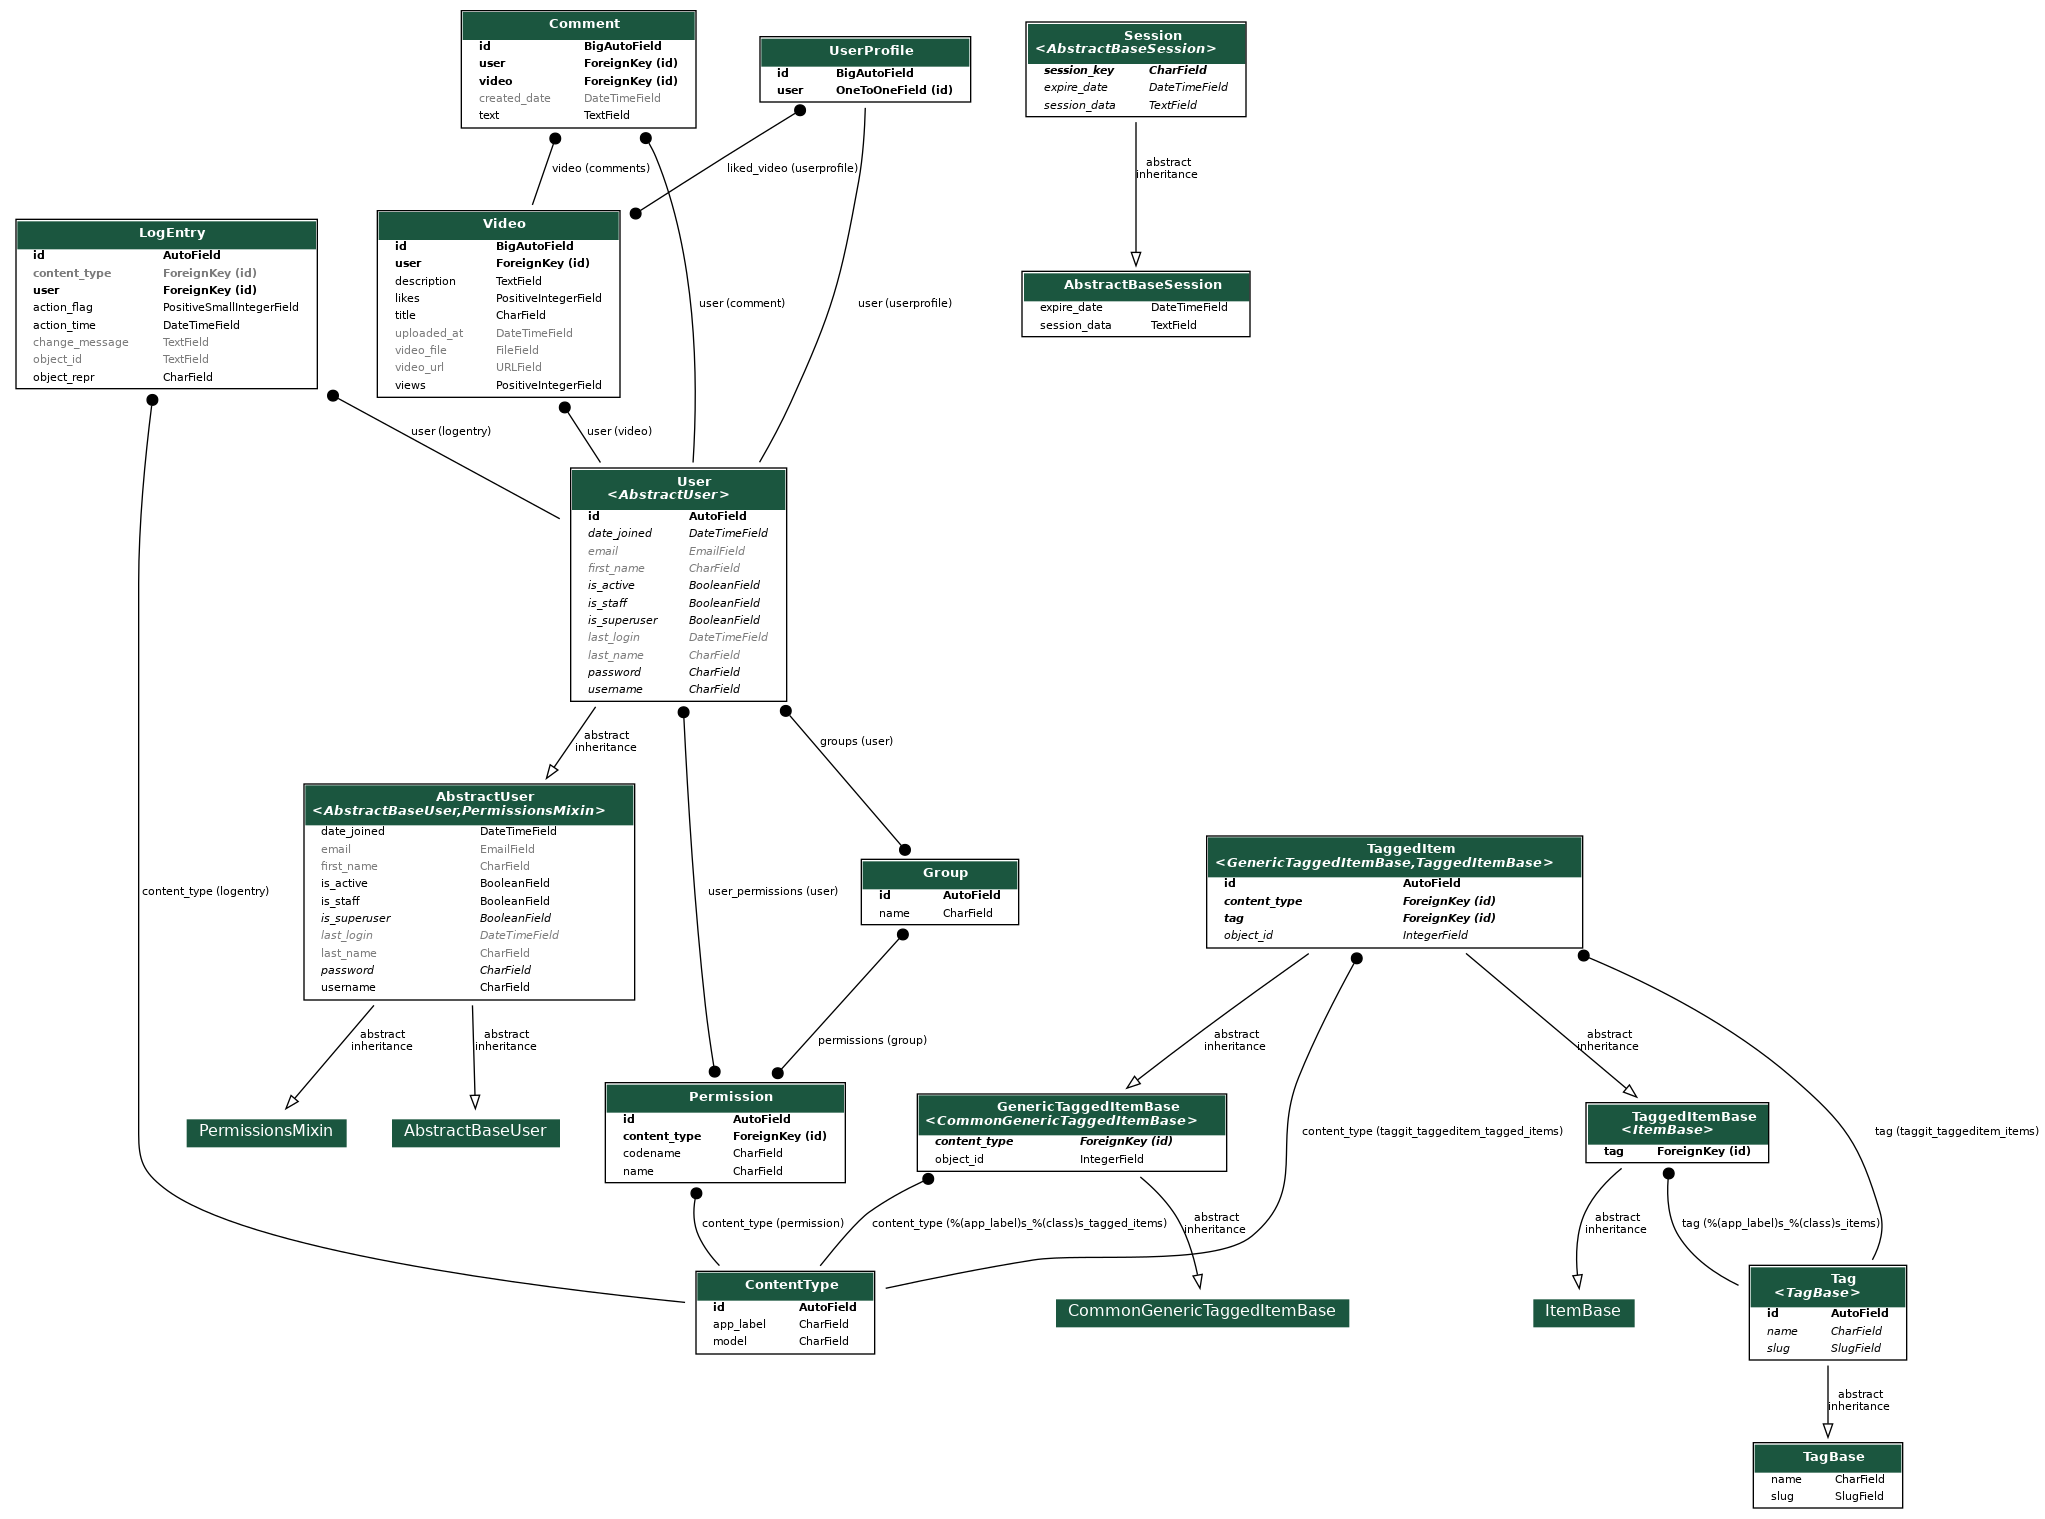
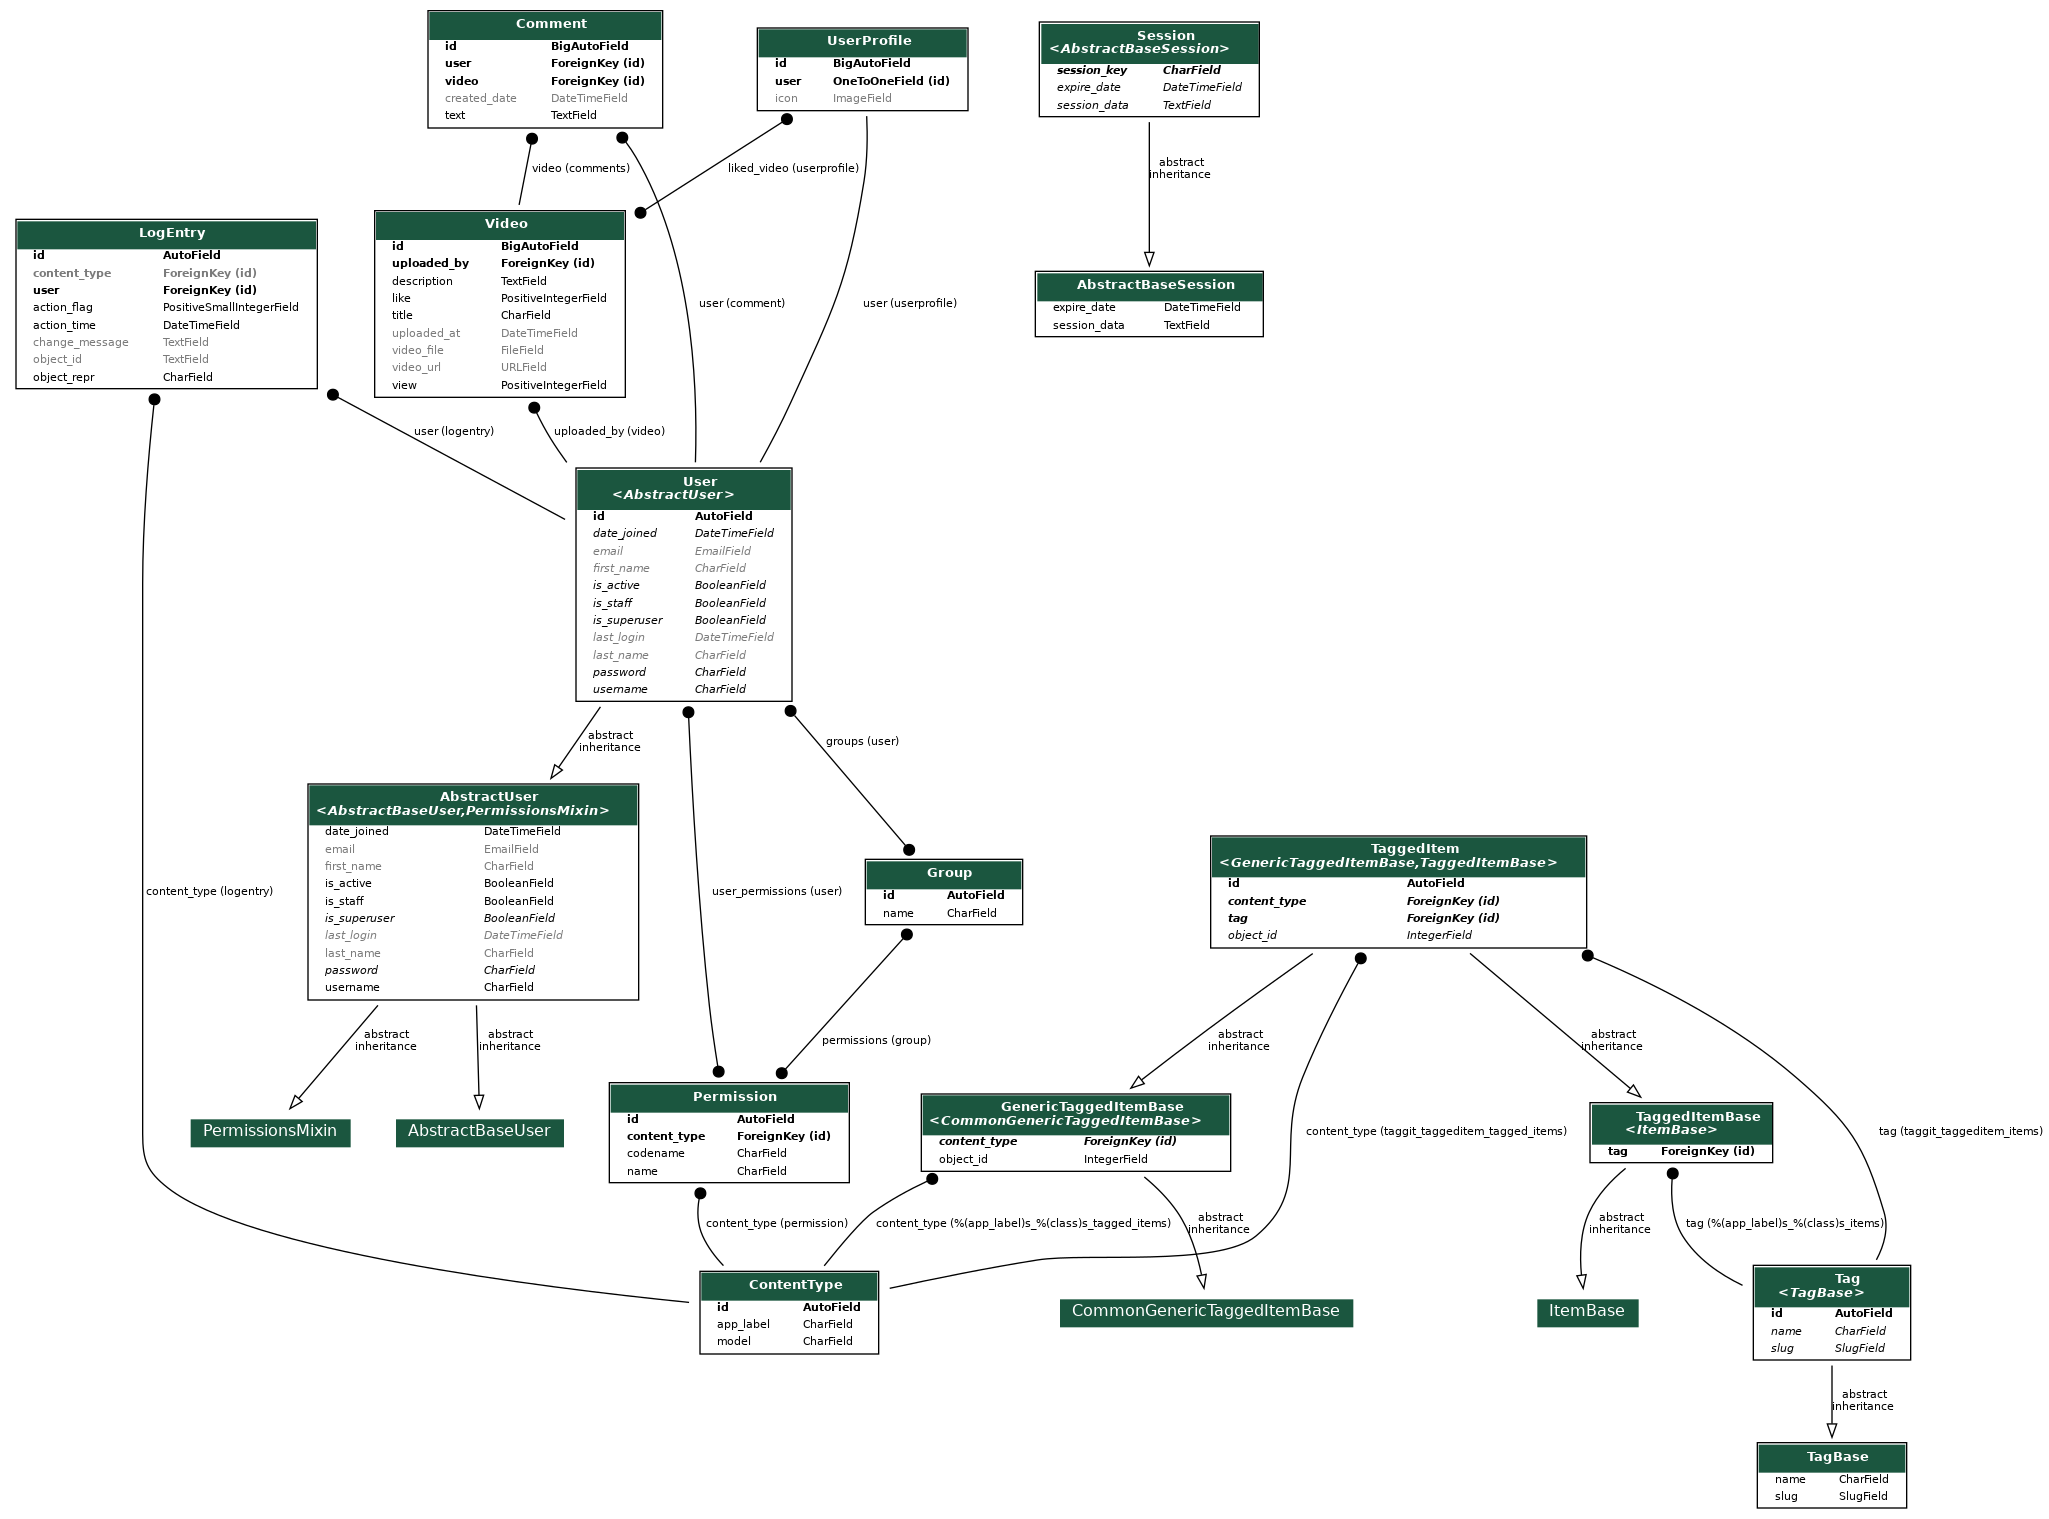
change : DB定義の変更をマイグレーション

diff --git a/dd_app/migrations/0006_rename_likes_video_like_rename_tags_video_tag_and_more.py b/dd_app/migrations/0006_rename_likes_video_like_rename_tags_video_tag_and_more.py
@@ -1,0 +1,37 @@
+# Generated by Django 5.0.1 on 2024-02-06 08:49
+
+from django.db import migrations
+
+
+class Migration(migrations.Migration):
+
+    dependencies = [
+        ('dd_app', '0005_video_icon'),
+    ]
+
+    operations = [
+        migrations.RenameField(
+            model_name='video',
+            old_name='likes',
+            new_name='like',
+        ),
+        migrations.RenameField(
+            model_name='video',
+            old_name='tags',
+            new_name='tag',
+        ),
+        migrations.RenameField(
+            model_name='video',
+            old_name='user',
+            new_name='uploaded_by',
+        ),
+        migrations.RenameField(
+            model_name='video',
+            old_name='views',
+            new_name='view',
+        ),
+        migrations.RemoveField(
+            model_name='video',
+            name='icon',
+        ),
+    ]

diff --git a/accounts/migrations/0003_rename_tags_userprofile_tag_userprofile_icon.py b/accounts/migrations/0003_rename_tags_userprofile_tag_userprofile_icon.py
@@ -1,0 +1,23 @@
+# Generated by Django 5.0.1 on 2024-02-06 08:49
+
+from django.db import migrations, models
+
+
+class Migration(migrations.Migration):
+
+    dependencies = [
+        ('accounts', '0002_userprofile_tags'),
+    ]
+
+    operations = [
+        migrations.RenameField(
+            model_name='userprofile',
+            old_name='tags',
+            new_name='tag',
+        ),
+        migrations.AddField(
+            model_name='userprofile',
+            name='icon',
+            field=models.ImageField(blank=True, null=True, upload_to='icons/'),
+        ),
+    ]
